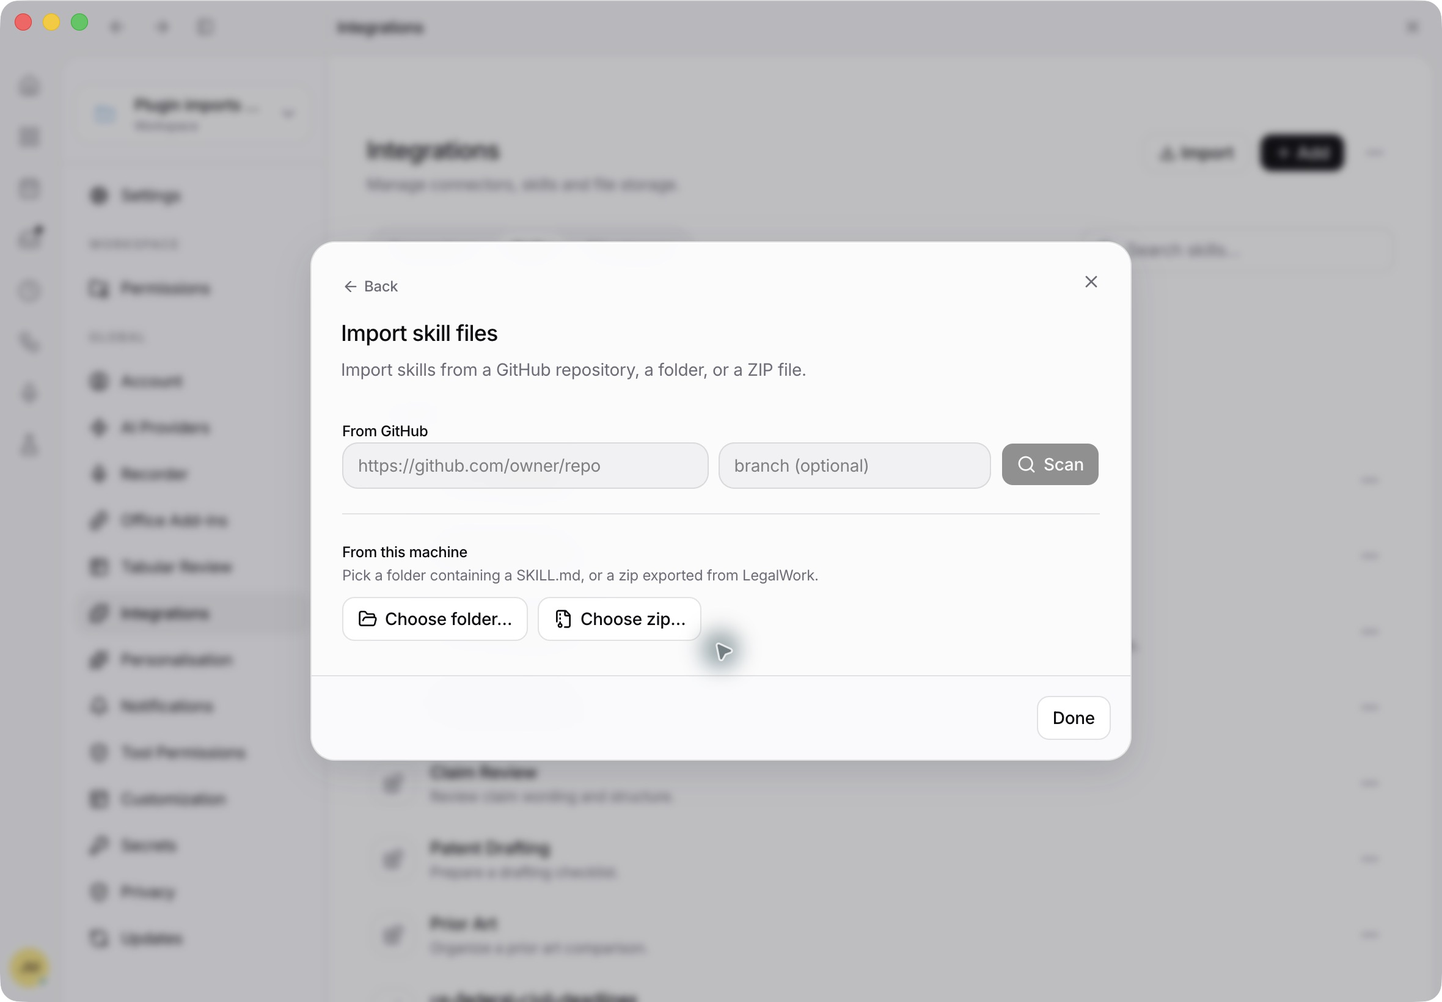
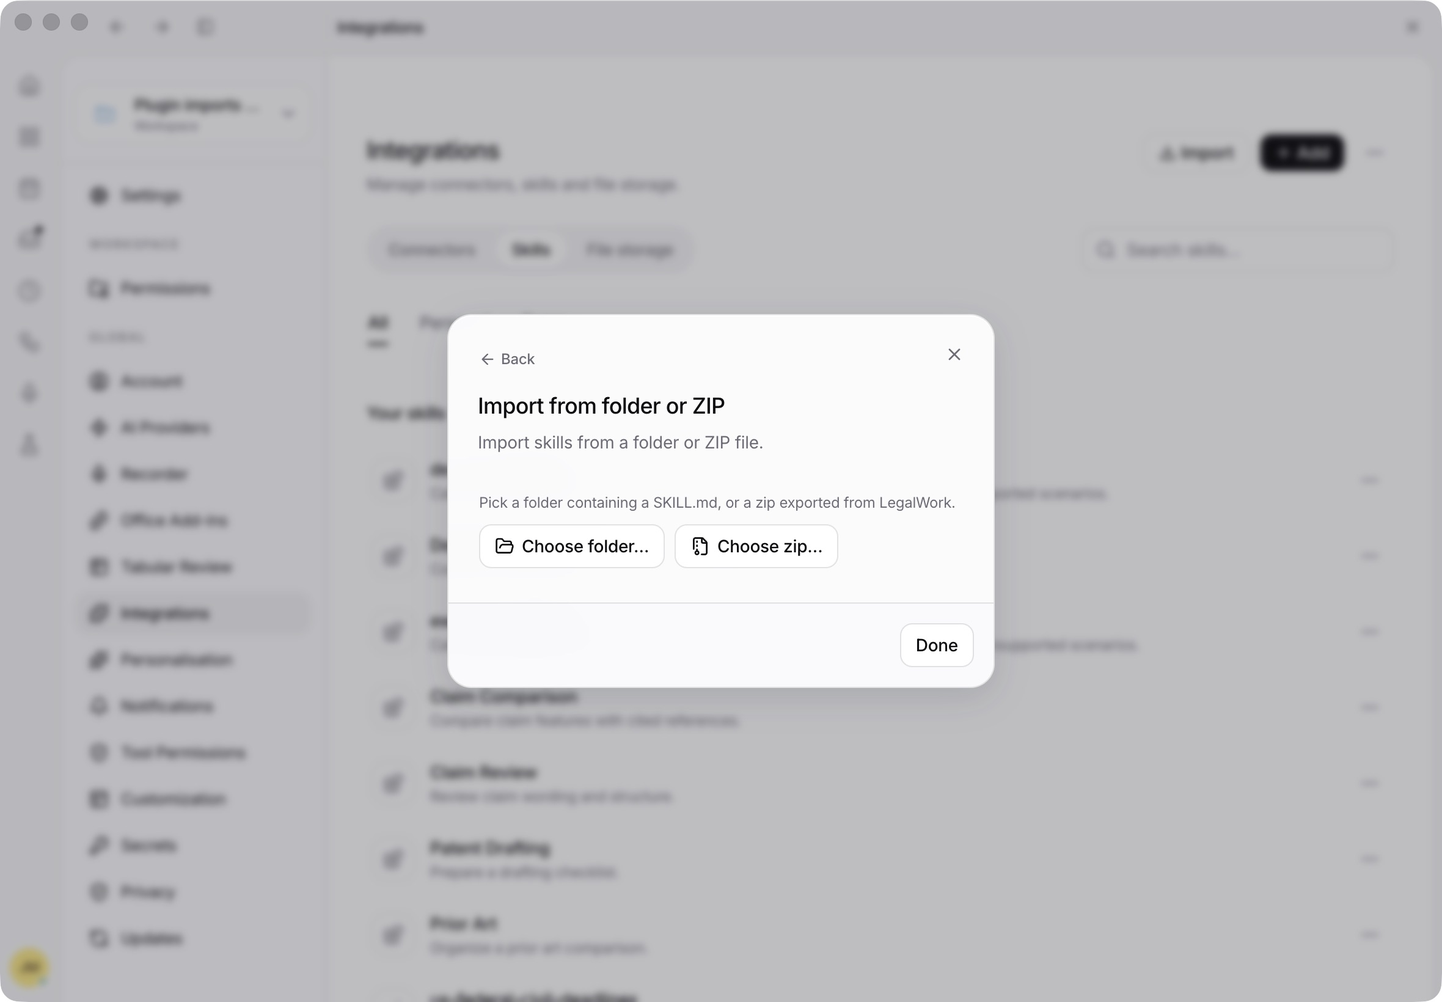
Separate GitHub and local file import choices

Changed region(s): [[0.2165, 0.2177, 0.8042, 0.7774], [0.0, 0.0, 0.0619, 0.0311], [0.5258, 0.3421, 0.5568, 0.3732]]

diff --git a/apps/app/src/react-app/domains/settings/pages/plugin-import-dialog.tsx b/apps/app/src/react-app/domains/settings/pages/plugin-import-dialog.tsx
@@ -1,6 +1,6 @@
 import { useEffect, useRef, useState, type RefObject } from "react";
 import JSZip from "jszip";
-import { ArrowLeft, Blocks, Bot, ChevronRight, FileArchive, FolderOpen, Loader2, Package, Plug, RefreshCw, Search, Terminal, TriangleAlert } from "lucide-react";
+import { ArrowLeft, Blocks, Bot, ChevronRight, FileArchive, FolderOpen, Github, Loader2, Package, Plug, RefreshCw, Search, Terminal, TriangleAlert } from "lucide-react";
 import type { PluginImportCandidate, PluginImportPreview, PluginImportProvider, PluginImportRequest, PluginImportSource } from "@legalwork/types/plugin-import";
 import { Button } from "@/components/ui/button";
 import { Input } from "@/components/ui/input";
@@ -14,6 +14,7 @@ import claudeLogo from "@/assets/claude-logo.svg";
 import { HubTabs } from "../segmented-tabs";
 import { groupPluginImportCandidates, pluginImportCandidateKey, pluginImportName } from "./plugin-import-presentation";
 import { packageParts } from "./skill-packages";
+import type { SkillImportSource } from "./skills-view";
 
 export type PluginImportStore = {
   discoverPluginImports(provider: PluginImportProvider): Promise<PluginImportCandidate[]>;
@@ -26,7 +27,7 @@ const componentIcons = { skill: Blocks, mcp: Plug, agent: Bot, command: Terminal
 const componentTitle = (type: PluginImportPreview["components"][number]["type"]) =>
   t(type === "skill" ? "skills.title" : type === "mcp" ? "extensions.connectors_label" : type === "agent" ? "composer.agents_label" : "dashboard.commands");
 
-export function PluginImportDialog(props: { store: PluginImportStore; onClose: () => void; onImported: (preview: PluginImportPreview) => void; onImportSkillFiles?: () => void | Promise<void>; canImportSkillFiles?: boolean; canImportPlugins?: boolean; returnFocus?: RefObject<HTMLElement | null> }) {
+export function PluginImportDialog(props: { store: PluginImportStore; onClose: () => void; onImported: (preview: PluginImportPreview) => void; onImportSkills?: (source: SkillImportSource) => void | Promise<void>; canImportSkills?: boolean; canImportLocalSkills?: boolean; canImportPlugins?: boolean; returnFocus?: RefObject<HTMLElement | null> }) {
   const [provider, setProvider] = useState<PluginImportProvider | null>(null);
   const [candidates, setCandidates] = useState<PluginImportCandidate[]>([]);
   const [discovering, setDiscovering] = useState(true);
@@ -161,7 +162,10 @@ export function PluginImportDialog(props: { store: PluginImportStore; onClose: (
         <div className="space-y-3">
           <Button ref={providerButton} autoFocus variant="outline" className="h-auto w-full justify-between gap-4 px-4 py-4" disabled={props.canImportPlugins === false} onClick={() => setProvider("chatgpt")}><span className="flex items-center gap-3"><ChatGptLogo className="size-6 shrink-0" />{t("extensions.import_chatgpt")}</span><ChevronRight className="size-4 text-muted-foreground" /></Button>
           <Button variant="outline" className="h-auto w-full justify-between gap-4 px-4 py-4" disabled={props.canImportPlugins === false} onClick={() => setProvider("claude")}><span className="flex items-center gap-3"><img src={claudeLogo} alt="" aria-hidden="true" width={24} height={24} className="size-6 shrink-0" />{t("extensions.import_claude")}</span><ChevronRight className="size-4 text-muted-foreground" /></Button>
-          {props.onImportSkillFiles ? <Button variant="outline" className="h-auto w-full justify-between gap-4 px-4 py-4" disabled={!props.canImportSkillFiles} onClick={props.onImportSkillFiles}><span className="flex items-center gap-3"><FolderOpen className="size-6 shrink-0" />{t("integrations.import_files_or_github")}</span><ChevronRight className="size-4 text-muted-foreground" /></Button> : null}
+          {props.onImportSkills ? <>
+            <Button variant="outline" className="h-auto w-full justify-between gap-4 px-4 py-4" disabled={!props.canImportSkills} onClick={() => props.onImportSkills?.("github")}><span className="flex items-center gap-3"><Github className="size-6 shrink-0" />{t("integrations.import_github")}</span><ChevronRight className="size-4 text-muted-foreground" /></Button>
+            <Button variant="outline" className="h-auto w-full justify-between gap-4 px-4 py-4" disabled={!props.canImportLocalSkills} onClick={() => props.onImportSkills?.("files")}><span className="flex items-center gap-3"><FolderOpen className="size-6 shrink-0" />{t("integrations.import_files")}</span><ChevronRight className="size-4 text-muted-foreground" /></Button>
+          </> : null}
         </div>
       </> : <>
       <DialogHeader className="shrink-0 px-6 pb-5 pt-6">

diff --git a/apps/app/src/react-app/domains/settings/pages/skills-view.tsx b/apps/app/src/react-app/domains/settings/pages/skills-view.tsx
@@ -1675,6 +1675,7 @@ function WorkflowCreatorButton(props: {
 }
 
 export type SkillImportStore = Pick<SkillsExtensionsStore, "scanGithubSkills" | "previewClaudePlugin" | "importGithubSkills" | "installClaudePlugin" | "importLocalSkill" | "importLocalSkillZip">;
+export type SkillImportSource = "github" | "files";
 
 export function ImportSkillsButton(props: {
   open?: boolean;
@@ -1682,6 +1683,8 @@ export function ImportSkillsButton(props: {
   onBack?: () => void;
   onImported?: () => void;
   returnFocus?: false | RefObject<HTMLElement | null>;
+  /** Standalone workflow import keeps both sources when this is omitted. */
+  source?: SkillImportSource;
   asWorkflow: boolean;
   busy: boolean;
   canUseDesktopTools: boolean;
@@ -1869,18 +1872,18 @@ export function ImportSkillsButton(props: {
           if (!next) reset();
         }}
       >
-        <DialogContent className="flex max-h-[88vh] min-h-0 w-full max-w-2xl flex-col overflow-hidden sm:max-w-2xl" finalFocus={props.returnFocus}>
+        <DialogContent className={`flex max-h-[88vh] min-h-0 w-full flex-col overflow-hidden ${props.source === "files" ? "max-w-md sm:max-w-md" : "max-w-2xl sm:max-w-2xl"}`} finalFocus={props.returnFocus}>
           <DialogHeader>
             {props.onBack ? <Button variant="link" size="xs" className="mb-2 w-fit px-0 text-muted-foreground" disabled={scanning || importing} onClick={() => { reset(); props.onBack?.(); }}><ArrowLeft className="size-3.5" />{t("common.back")}</Button> : null}
-            <DialogTitle>{asWorkflow ? t("skills.import_workflows_title") : t("integrations.import_skill_files")}</DialogTitle>
+            <DialogTitle>{t(asWorkflow ? "skills.import_workflows_title" : props.source === "github" ? "integrations.import_github" : props.source === "files" ? "integrations.import_files" : "integrations.import_skill_files")}</DialogTitle>
             <DialogDescription>
-              {asWorkflow ? "Bring in workflow folders from a GitHub repo or a local folder. Each is a directory containing a SKILL.md. Imported items are added as workflows." : t("integrations.import_skill_files_description")}
+              {asWorkflow ? "Bring in workflow folders from a GitHub repo or a local folder. Each is a directory containing a SKILL.md. Imported items are added as workflows." : t(props.source === "github" ? "integrations.import_github_description" : props.source === "files" ? "integrations.import_files_description" : "integrations.import_skill_files_description")}
             </DialogDescription>
           </DialogHeader>
 
           <div className="min-h-0 flex-1 space-y-5 overflow-y-auto px-px py-1">
-            <div className="space-y-2">
-              <span className="text-xs font-medium text-dls-text">{t("skills.from_github")}</span>
+            {props.source !== "files" ? <div className="space-y-2">
+              {!props.source ? <span className="text-xs font-medium text-dls-text">{t("skills.from_github")}</span> : null}
               <div className="flex flex-col gap-2 sm:flex-row">
                 <input
                   value={url}
@@ -2005,12 +2008,12 @@ export function ImportSkillsButton(props: {
                   </Button>
                 </div>
               ) : null}
-            </div>
+            </div> : null}
 
-            <Separator />
+            {!props.source ? <Separator /> : null}
 
-            <div className="space-y-2">
-              <span className="text-xs font-medium text-dls-text">{t("skills.from_this_machine")}</span>
+            {props.source !== "github" ? <div className="space-y-2">
+              {!props.source ? <span className="text-xs font-medium text-dls-text">{t("skills.from_this_machine")}</span> : null}
               <p className="text-[12px] leading-relaxed text-dls-secondary">
                 {t("skills.import_hint")}
               </p>
@@ -2027,7 +2030,7 @@ export function ImportSkillsButton(props: {
               {!props.canUseDesktopTools ? (
                 <p className="text-[11px] text-dls-secondary/70">{t("skills.desktop_required")}</p>
               ) : null}
-            </div>
+            </div> : null}
           </div>
 
           <DialogFooter>

diff --git a/apps/app/src/react-app/domains/settings/pages/extensions-view.tsx b/apps/app/src/react-app/domains/settings/pages/extensions-view.tsx
@@ -11,7 +11,7 @@ import { PluginsView, type PluginsExtensionsStore } from "./plugins-view";
 import { HubScopeContext } from "./hub-scope-context";
 import { HubTabs, type HubTab } from "../segmented-tabs";
 import { IntegrationLibraryLayoutContext, IntegrationMoreMenu, type IntegrationLibrarySource } from "./integration-library";
-import { ImportSkillsButton, type SkillImportStore, type SkillsExtensionsStore } from "./skills-view";
+import { ImportSkillsButton, type SkillImportSource, type SkillImportStore, type SkillsExtensionsStore } from "./skills-view";
 import { orgPolicyAllows } from "../../connections/org-policy";
 
 export type ExtensionsSection = "all" | "mcp" | "skills" | "plugins" | "storage";
@@ -85,6 +85,7 @@ export function ExtensionsView(props: ExtensionsViewProps) {
         : "connectors";
   const [importOpen, setImportOpen] = useState(false);
   const [skillImportOpen, setSkillImportOpen] = useState(false);
+  const [skillImportSource, setSkillImportSource] = useState<SkillImportSource>("files");
   const importButton = useRef<HTMLButtonElement>(null);
   const [importVersion, setImportVersion] = useState(0);
   const [tab, setTab] = useState<ExtensionsTab>(initialTab);
@@ -122,15 +123,17 @@ export function ExtensionsView(props: ExtensionsViewProps) {
         {importOpen && props.pluginImports ? <PluginImportDialog store={props.pluginImports} onClose={() => setImportOpen(false)} onImported={preview => { setImportVersion(value => value + 1); setSource("all"); selectTab(preview.format === "connectors" ? "connectors" : "skills"); props.onRefresh(); }}
           returnFocus={importButton}
           canImportPlugins={canImportPlugins && !props.busy}
-          canImportSkillFiles={canImportSkills && !props.busy}
-          onImportSkillFiles={props.skillImports ? async () => {
-            if (!props.canImportSkills || props.busy || !(await orgPolicyAllows("skills.allowCustom"))) return;
+          canImportSkills={canImportSkills && !props.busy}
+          canImportLocalSkills={canImportSkills && !props.busy && !props.isRemoteWorkspace}
+          onImportSkills={props.skillImports ? async importSource => {
+            if (!props.canImportSkills || props.busy || (importSource === "files" && props.isRemoteWorkspace) || !(await orgPolicyAllows("skills.allowCustom"))) return;
             setImportOpen(false);
             setSource("all");
             selectTab("skills");
+            setSkillImportSource(importSource);
             setSkillImportOpen(true);
           } : undefined} /> : null}
-        {props.skillImports ? <ImportSkillsButton open={skillImportOpen} onOpenChange={setSkillImportOpen} returnFocus={importOpen ? false : importButton} asWorkflow={false} busy={props.busy} canUseDesktopTools={!props.isRemoteWorkspace} existingNames={new Set(props.skillImports.skills().map(skill => skill.name))} extensions={props.skillImports} onImported={importedSkills} onPackageImported={importedSkills} onBack={() => { setSkillImportOpen(false); setImportOpen(true); }} /> : null}
+        {props.skillImports ? <ImportSkillsButton open={skillImportOpen} onOpenChange={setSkillImportOpen} source={skillImportSource} returnFocus={importOpen ? false : importButton} asWorkflow={false} busy={props.busy} canUseDesktopTools={!props.isRemoteWorkspace} existingNames={new Set(props.skillImports.skills().map(skill => skill.name))} extensions={props.skillImports} onImported={importedSkills} onPackageImported={importedSkills} onBack={() => { setSkillImportOpen(false); setImportOpen(true); }} /> : null}
         <div className="flex flex-wrap items-center justify-between gap-3">
           <HubTabs items={TABS} value={tab} onChange={selectTab} label={t("extensions.eyebrow_integrations")} />
           <div ref={setSearchTarget} className="w-full empty:hidden sm:w-auto" />

diff --git a/apps/app/src/i18n/locales/de.ts b/apps/app/src/i18n/locales/de.ts
@@ -34,7 +34,10 @@ const de = {
   "integrations.skill_commands": "Starten Sie diesen Skill mit diesen Befehlen im Chat.",
   "integrations.browse_team_skills": "Team-Skills durchsuchen",
   "integrations.import_skill_files": "Skill-Dateien importieren",
-  "integrations.import_files_or_github": "Skill-Dateien oder GitHub",
+  "integrations.import_github": "Aus GitHub importieren",
+  "integrations.import_files": "Aus Ordner oder ZIP importieren",
+  "integrations.import_github_description": "Suchen und wählen Sie Skills aus einem GitHub-Repository.",
+  "integrations.import_files_description": "Importieren Sie Skills aus einem Ordner oder einer ZIP-Datei.",
   "integrations.import_skill_files_description": "Importieren Sie Skills aus einem GitHub-Repository, einem Ordner oder einer ZIP-Datei.",
   "firm_hub.skills": "Geteilte Skills",
   "firm_hub.skills_desc": "Skills Ihrer Kanzlei. Automatisch hinzugefügte Skills stehen bereits in Ihrer Liste; optionale Skills können Sie bei Bedarf hinzufügen.",

diff --git a/apps/app/src/i18n/locales/en.ts b/apps/app/src/i18n/locales/en.ts
@@ -24,7 +24,10 @@ export default {
   "integrations.skill_commands": "Use these commands in chat to start this skill.",
   "integrations.browse_team_skills": "Browse team skills",
   "integrations.import_skill_files": "Import skill files",
-  "integrations.import_files_or_github": "Skill files or GitHub",
+  "integrations.import_github": "Import from GitHub",
+  "integrations.import_files": "Import from folder or ZIP",
+  "integrations.import_github_description": "Find and select skills from a GitHub repository.",
+  "integrations.import_files_description": "Import skills from a folder or ZIP file.",
   "integrations.import_skill_files_description": "Import skills from a GitHub repository, a folder, or a ZIP file.",
   "firm_hub.skills": "Shared skills",
   "firm_hub.skills_desc": "Skills offered by your firm. Automatically added skills are already in your list; add optional skills when you need them.",

diff --git a/docs/plugin-imports.md b/docs/plugin-imports.md
@@ -1,6 +1,6 @@
 # Import ChatGPT and Claude plugins
 
-On **Integrations**, choose the single **Import** action in the top toolbar. The chooser offers **ChatGPT**, **Claude**, and **Skill files or GitHub**. The file/GitHub choice opens the existing skill importer, with GitHub scanning, native folder/ZIP choices, and Back to the source chooser. ChatGPT and Claude show their logos. **Change app** returns to the chooser. The next dialog shows a searchable list of plugins, skills and standalone MCP connectors found on this computer, using display names and descriptions from package metadata. **All / Plugins / Skills / Connectors** filters sit below the search field and work together with search; returning from a preview keeps both selections. Duplicate versions appear as one row, with other copies available in the source details. You can also choose a complete folder or ZIP with the native file picker. Selecting a source opens a separate review of its skills, connectors, agents, commands and compatibility notices before importing. A folder or archive containing multiple plugin manifests lets you choose the package to import. Import each package individually.
+On **Integrations**, choose the single **Import** action in the top toolbar. The chooser offers **ChatGPT**, **Claude**, **GitHub**, and **Folder or ZIP** as separate choices. GitHub opens repository scanning without local file controls. Folder or ZIP opens a compact local import screen without GitHub fields. Both return to the source chooser with Back. ChatGPT and Claude show their logos. **Change app** returns to the chooser. The next dialog shows a searchable list of plugins, skills and standalone MCP connectors found on this computer, using display names and descriptions from package metadata. **All / Plugins / Skills / Connectors** filters sit below the search field and work together with search; returning from a preview keeps both selections. Duplicate versions appear as one row, with other copies available in the source details. You can also choose a complete folder or ZIP with the native file picker. Selecting a source opens a separate review of its skills, connectors, agents, commands and compatibility notices before importing. A folder or archive containing multiple plugin manifests lets you choose the package to import. Import each package individually.
 
 Imports are automatically available in all projects, matching the desktop Skills and Connectors libraries. Choose a folder using the native file picker, choose a ZIP, or select an auto-discovered installation. Preview opens automatically after selection. Discovery, installation and removal require owner access and respect custom-plugin, skill and connector policies. The underlying API retains project-scoped installation support for existing integrations.
 
@@ -86,7 +86,7 @@ All combines personal and team items; Skills also includes the expertise built i
 
 All rows use icon, name, description and a three-dot action menu. View details comes first, then Edit, Export and Share when supported, followed by separated Remove. Sharing reviews only the selected item under its readable name. Team skill rows retain optional Add/Remove membership and the existing confirmation; installed team skills retain their read-only instructions/resource viewer. Automatic items stay managed by the firm. Connector account/enablement controls and storage membership remain in their details dialogs. Ready/Paused labels beside toggles, the sync indicator, unavailable expand arrows and the global project-availability badge are removed.
 
-Skills More contains Imported packages, Open skills folder and Refresh. The separate Import skill files menu entry is removed; the main Import chooser includes its GitHub/folder/ZIP flow. The package manager remains reachable without mixing whole packages into the skills source filter. Package components still appear in the appropriate main libraries. Workflows retain their existing controls and pagination.
+Skills More contains Imported packages, Open skills folder and Refresh. The separate Import skill files menu entry is removed; the main Import chooser includes separate GitHub and Folder or ZIP flows. The package manager remains reachable without mixing whole packages into the skills source filter. Package components still appear in the appropriate main libraries. Workflows retain their existing controls and pagination.
 
 ![Connector library with underlined source tabs](images/integrations-connectors-library.png)
 
@@ -108,7 +108,7 @@ Skills More contains Imported packages, Open skills folder and Refresh. The sepa
 
 ![Sharing reviews only the selected skill](images/integrations-single-item-sharing.png)
 
-The final focused check, `pnpm --filter @legalwork/app exec bun test tests/integration-libraries.test.tsx tests/mcp-library.test.tsx tests/plugin-import-buttons.test.tsx`, passed 20 tests. The integration libraries passed `pnpm --filter @legalwork/app test` (949 tests across 146 files), `pnpm --filter @legalwork/app typecheck`, `pnpm --filter @legalwork/app build`, and `pnpm --filter @legalwork/app test:i18n` (5,749 keys per language). Regression coverage verifies source isolation for all three libraries, team connector/configuration deduplication, automatic ownership, optional connectors, the complete team skills catalogue appearing once, embedded team-skill search/empty results, built-in command search, and team storage access restrictions.
+The final focused check, `pnpm --filter @legalwork/app exec bun test tests/integration-libraries.test.tsx tests/mcp-library.test.tsx tests/plugin-import-buttons.test.tsx`, passed 20 tests. The integration libraries passed `pnpm --filter @legalwork/app test` (949 tests across 146 files), `pnpm --filter @legalwork/app typecheck`, `pnpm --filter @legalwork/app build`, and `pnpm --filter @legalwork/app test:i18n` (5,752 keys per language). Regression coverage verifies source isolation for all three libraries, team connector/configuration deduplication, automatic ownership, optional connectors, the complete team skills catalogue appearing once, embedded team-skill search/empty results, built-in command search, and team storage access restrictions.
 
 Native Electron verification covered all three source-tab rows, arrow-key focus and Enter activation, connector search retained across source changes, personal skills excluding built-ins, the inline Team skills empty state, the cleaned-up More menu, the imported-package manager, source selection retained across category changes, and the actual shared storage source excluded by Personal and included by All/Team. This account has no shared team skills, so populated catalogue and membership rendering were checked with cached server-view fixtures. No connection, team membership, credential or shared item was changed.
 
@@ -122,8 +122,12 @@ The team connectors explanatory paragraph is removed from the library empty stat
 
 The corresponding explanatory paragraphs are also removed from Team Skills and Team File storage. Their headings and search-result hints remain. The focused library/import check passed again (19 tests).
 
-Native verification of the single import entry opened the chooser from Connectors, followed Skill files or GitHub into the Skills importer, checked its GitHub/folder/ZIP controls, returned with Back, and confirmed focus remained in the chooser and returned to Import on close. The Skills More menu no longer contains import actions. No source was installed during this navigation check. The full app suite passed 949 tests; type checking, production build and translation checks passed (5,749 keys per language). The final focused check passed 20 tests, including skill import availability when plugin editing is read-only.
+Native verification of the single import entry opened the chooser from Connectors, opened GitHub and Folder or ZIP separately, checked that each showed only the relevant controls, returned with Back, and confirmed focus remained in the chooser and returned to Import on close. The Skills More menu no longer contains import actions. No source was installed during this navigation check. The full app suite passed 949 tests; type checking, production build and translation checks passed (5,752 keys per language). The final focused check passed 20 tests, including skill import availability when plugin editing is read-only.
 
-![Skill files and GitHub behind the main Import action](images/integrations-skill-file-import.png)
+![Dedicated folder and ZIP import](images/integrations-skill-file-import.png)
 
-Team empty states consistently say “No connectors/skills/file storage shared by your firm yet.” This describes items coming from the firm. English and German wording is aligned. Native Electron verified the Connectors and Skills headings; the storage empty state is covered by the existing rendering check. The focused library/import tests passed (20), and `pnpm --filter @legalwork/app test:i18n` passed (5,749 keys per language).
+![Dedicated GitHub import](images/integrations-github-import.png)
+
+Team empty states consistently say “No connectors/skills/file storage shared by your firm yet.” This describes items coming from the firm. English and German wording is aligned. Native Electron verified the Connectors and Skills headings; the storage empty state is covered by the existing rendering check. The focused library/import tests passed (20), and `pnpm --filter @legalwork/app test:i18n` passed (5,752 keys per language).
+
+The separated-source follow-up passed `pnpm --filter @legalwork/app exec bun test tests/plugin-import-buttons.test.tsx tests/integration-libraries.test.tsx tests/mcp-library.test.tsx` (20 tests), `pnpm --filter @legalwork/app typecheck`, `pnpm --filter @legalwork/app build` and `pnpm --filter @legalwork/app test:i18n` (5,752 keys per language). Native Electron verified all four chooser entries, the GitHub-only repository form, the folder/ZIP-only controls, and Back from both screens. Standalone workflow import retains both methods. No source was installed during this check.
